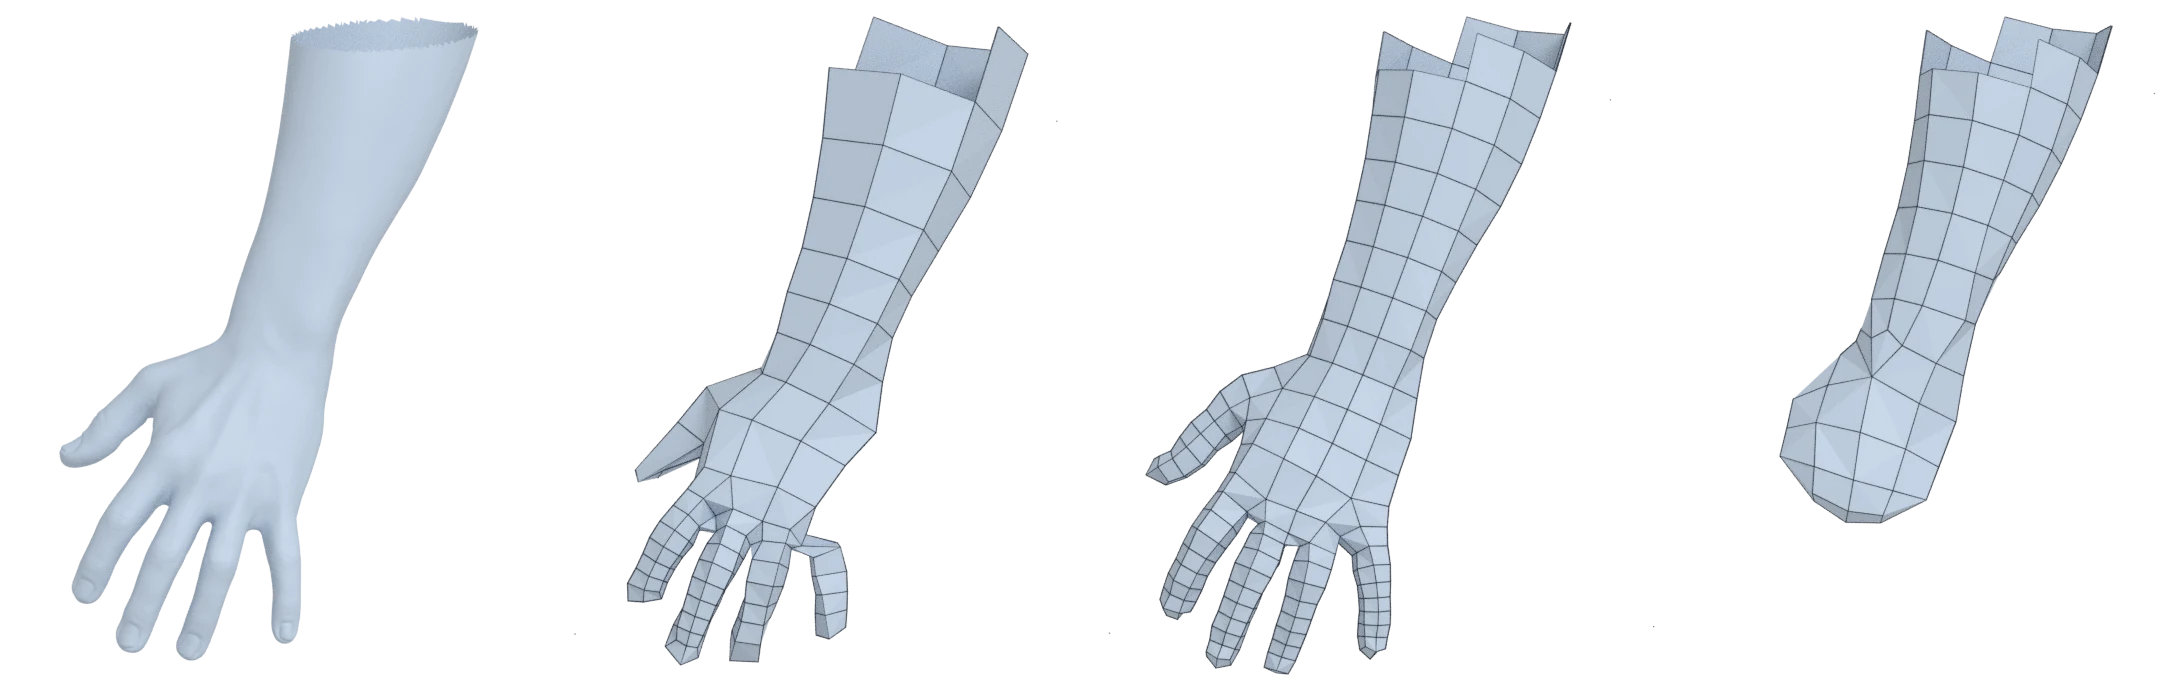
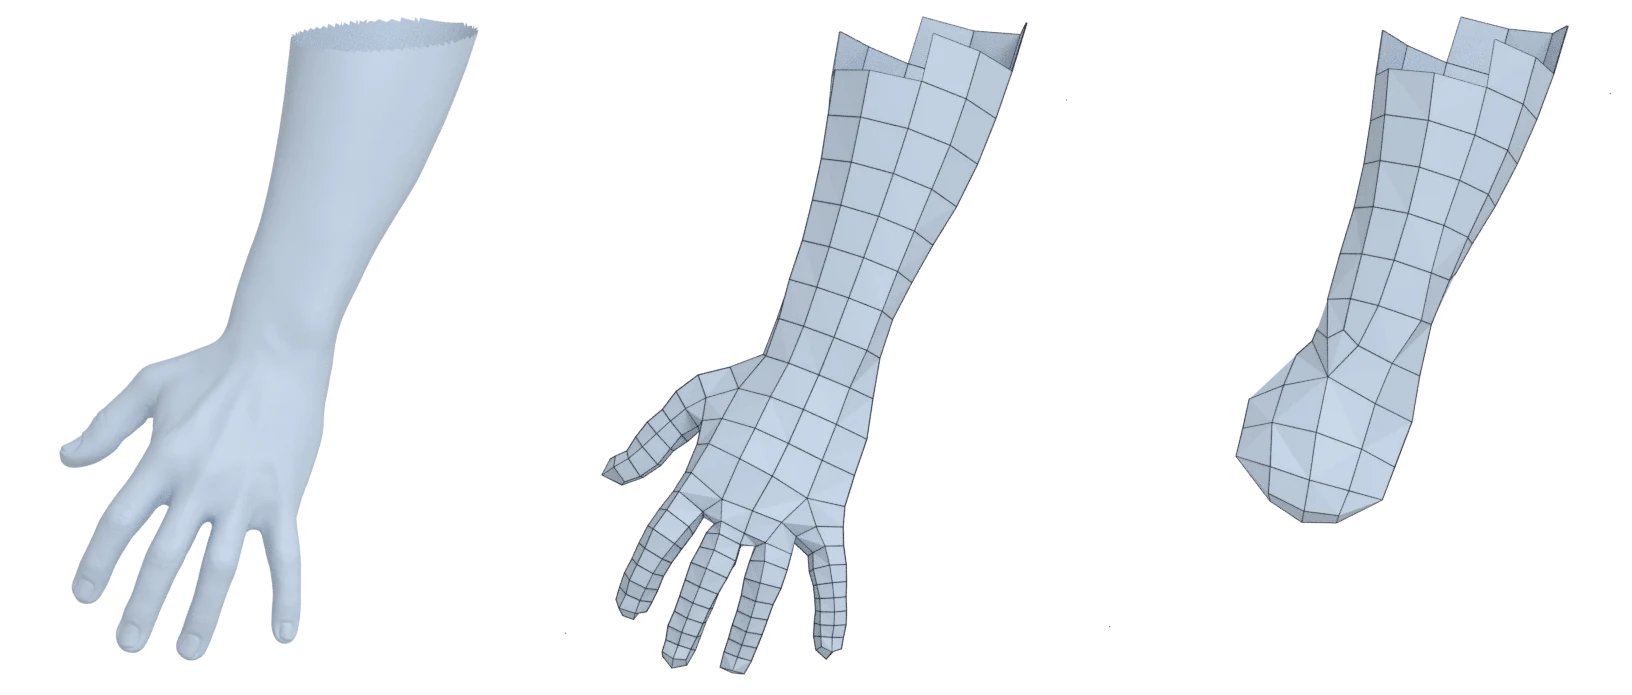
Site: the fingers figure at 3,000 quads only, openclare against Instant Meshes

diff --git a/scripts/fingers_figure.py b/scripts/fingers_figure.py
@@ -3,9 +3,8 @@
 
     python3 scripts/fingers_figure.py [--blender blender]
 
-Writes docs/images/fingers.webp, four panels side by side: the source,
-openclare asked at 1,000 and at 3,000 quads, and Instant Meshes asked at 3,000,
-seed 1 of the bench. It reads the bench's own results under
+Writes docs/images/fingers.webp, three panels side by side: the source,
+openclare and Instant Meshes, both asked at 3,000 quads, seed 1 of the bench. It reads the bench's own results under
 bench/out/human_male/, which `bench/run.py` makes.
 
 Each mesh is cut to the same box round the right forearm and hand, and the box's
@@ -24,7 +23,7 @@ from PIL import Image
 ROOT = Path(__file__).resolve().parent.parent
 BENCH = ROOT / "bench/out/human_male"
 TARGET = ROOT / "docs/images/fingers.webp"
-PANELS = (("source.obj", False), ("1000/openclare_1.obj", True), ("3000/openclare_1.obj", True), ("3000/instant-meshes_1.obj", True))
+PANELS = (("source.obj", False), ("3000/openclare_1.obj", True), ("3000/instant-meshes_1.obj", True))
 # Round the right forearm and hand, in the bench's units, z up.
 LOW, HIGH = (0.24, -0.20, 0.70), (0.46, 0.06, 1.02)
 SIZE, PAD = 700, 20

diff --git a/site/content/index.fr.md b/site/content/index.fr.md
@@ -31,11 +31,11 @@ Sélectionnez une boucle d'arêtes avec Alt-clic : elle devrait faire une fois l
 
 ## Des doigts qui restent des doigts
 
-À 1 000 quads, un corps entier n'en a que quelques dizaines par main, et beaucoup de remailleurs abandonnent les doigts : ils fondent en moufle, même avec trois fois plus de quads. openclare garde au moins six quads autour de chaque partie fine, un doigt ou le bout d'une oreille, avec des quads plus petits là et plus grands ailleurs : la partie garde son volume au lieu de sortir aplatie (*Quads Around Thin Parts*).
+Un corps entier à 3 000 quads laisse peu de quads à chaque main, et beaucoup de remailleurs abandonnent les doigts : ils fondent en moufle. openclare garde au moins six quads autour de chaque partie fine, un doigt ou le bout d'une oreille, avec des quads plus petits là et plus grands ailleurs : la partie garde son volume au lieu de sortir aplatie (*Quads Around Thin Parts*).
 
-![La main droite d'un corps humain remaillé : la source, openclare à 1 000 et à 3 000 quads avec cinq doigts, Instant Meshes à 3 000 quads avec une moufle](../../docs/images/fingers.webp)
+![La main droite d'un corps humain à 3 000 quads : la source, openclare avec cinq doigts, Instant Meshes avec une moufle](../../docs/images/fingers.webp)
 
-*La main droite d'un corps humain : la source, openclare demandé à 1 000 quads (1 014 obtenus) et à 3 000 (3 032 obtenus), Instant Meshes demandé à 3 000 (2 800 obtenus). Sur les parties fines, le banc mesure openclare à 0,09 arête de quad de la source à 1 000 quads comme à 3 000, Instant Meshes à 0,84 à 3 000.*
+*La main droite d'un corps humain demandé à 3 000 quads : la source, openclare (3 032 quads), Instant Meshes (2 800 quads). Sur les parties fines, le banc mesure openclare à 0,09 arête de quad de la source, Instant Meshes à 0,84.*
 
 ## Voir en 3D
 

diff --git a/site/content/index.md b/site/content/index.md
@@ -31,11 +31,11 @@ Select an edge loop with Alt-click: it should go round the arm once and close. A
 
 ## Fingers that stay fingers
 
-At 1,000 quads a whole body has a few dozen for each hand, and many remeshers give the fingers up: they melt into a mitten, even with three times as many quads. openclare keeps at least six quads round every thin part, a finger or the tip of an ear, with smaller quads there and larger ones elsewhere, so the part keeps its volume instead of coming out flat (*Quads Around Thin Parts*).
+A whole body at 3,000 quads leaves little for each hand, and many remeshers give the fingers up: they melt into a mitten. openclare keeps at least six quads round every thin part, a finger or the tip of an ear, with smaller quads there and larger ones elsewhere, so the part keeps its volume instead of coming out flat (*Quads Around Thin Parts*).
 
-![The right hand of a human body: the source, openclare at 1,000 and at 3,000 quads with five fingers, Instant Meshes at 3,000 quads with a mitten](../../docs/images/fingers.webp)
+![The right hand of a human body at 3,000 quads: the source, openclare with five fingers, Instant Meshes with a mitten](../../docs/images/fingers.webp)
 
-*The right hand of a human body: the source, openclare asked at 1,000 quads (1,014 made) and at 3,000 (3,032 made), Instant Meshes asked at 3,000 (2,800 made). On the thin parts the bench measures openclare 0.09 quad edge from the source at 1,000 quads as at 3,000, Instant Meshes 0.84 at 3,000.*
+*The right hand of a human body asked at 3,000 quads: the source, openclare (3,032 quads), Instant Meshes (2,800 quads). On the thin parts the bench measures openclare 0.09 quad edge from the source, Instant Meshes 0.84.*
 
 ## See it in 3D
 
